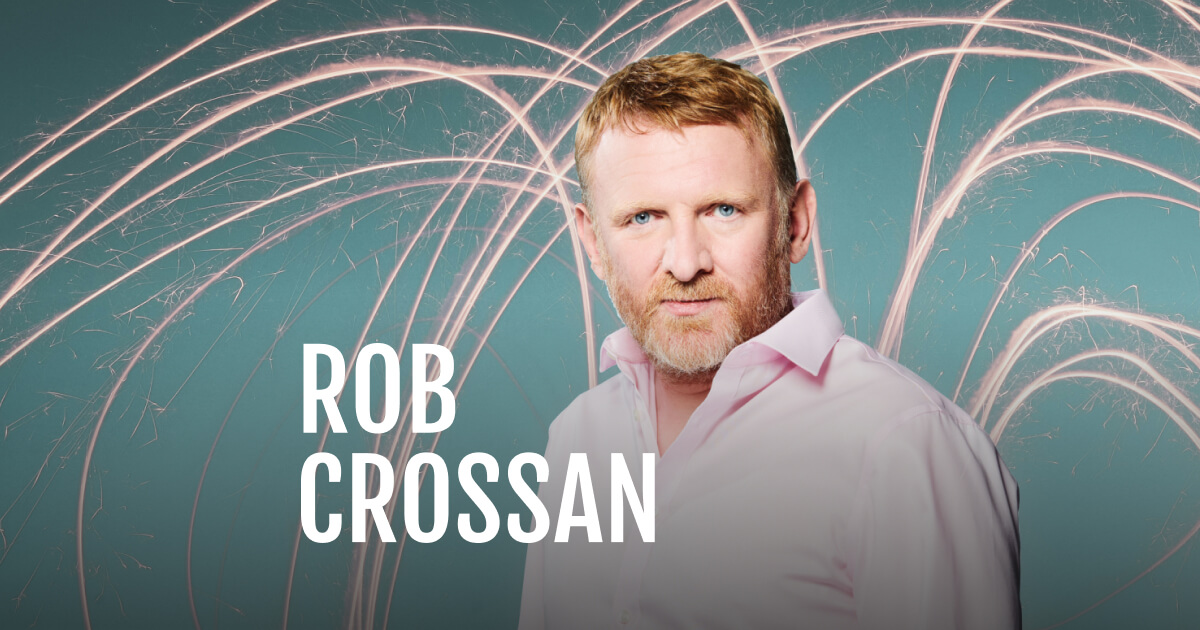
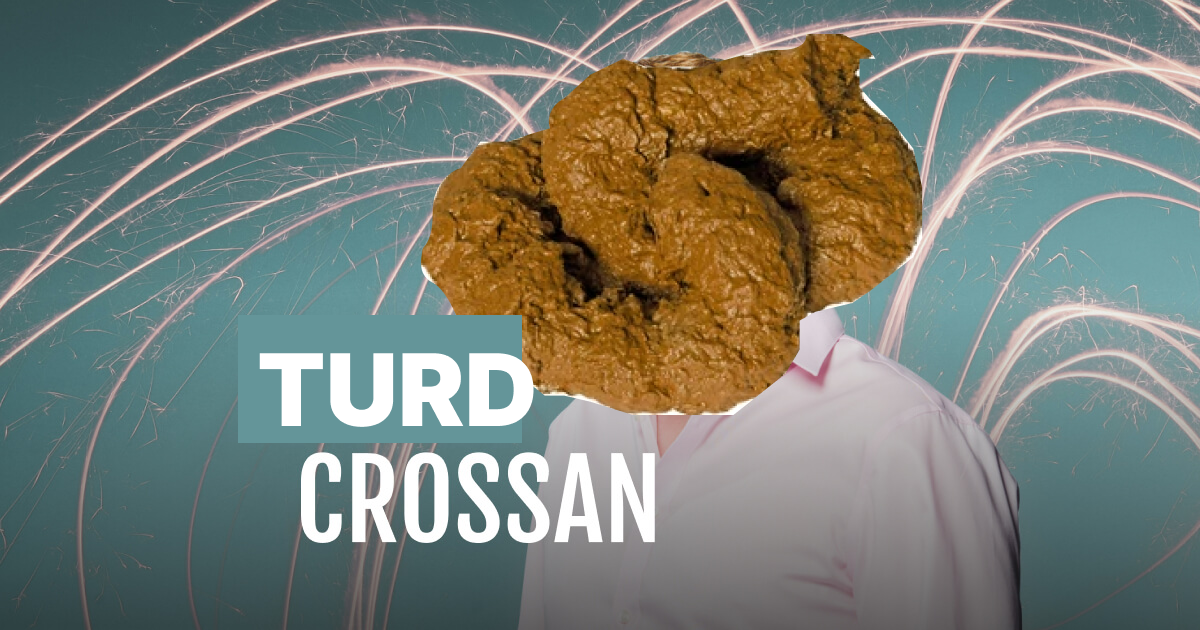
Turds

Changed region(s): [[0.185, 0.0302, 0.7708, 0.7238]]

diff --git a/app/page.tsx b/app/page.tsx
@@ -32,7 +32,7 @@ export default function Home() {
           background="linear-gradient(180deg, rgba(0,0,0,0) 60%, rgba(0,0,0,0.6) 100%)"
           position="relative"
         >
-          <H1 lineHeight={1}>Rob Crossan</H1>
+          <H1 lineHeight={1}>Turdy Turdsworth</H1>
           <Box h={1} flex="1 0" bg="white" />
         </Flex>
       </HomepageHero>
